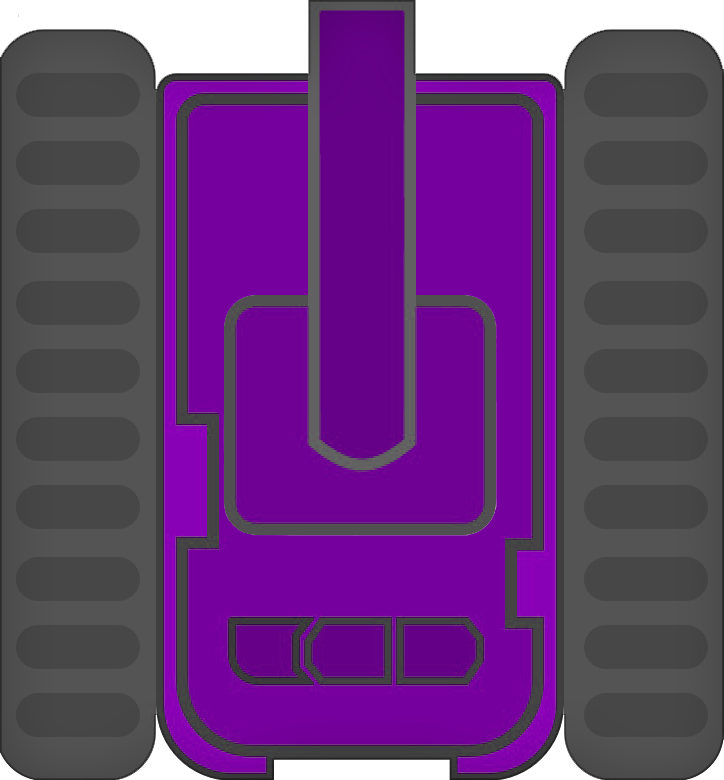
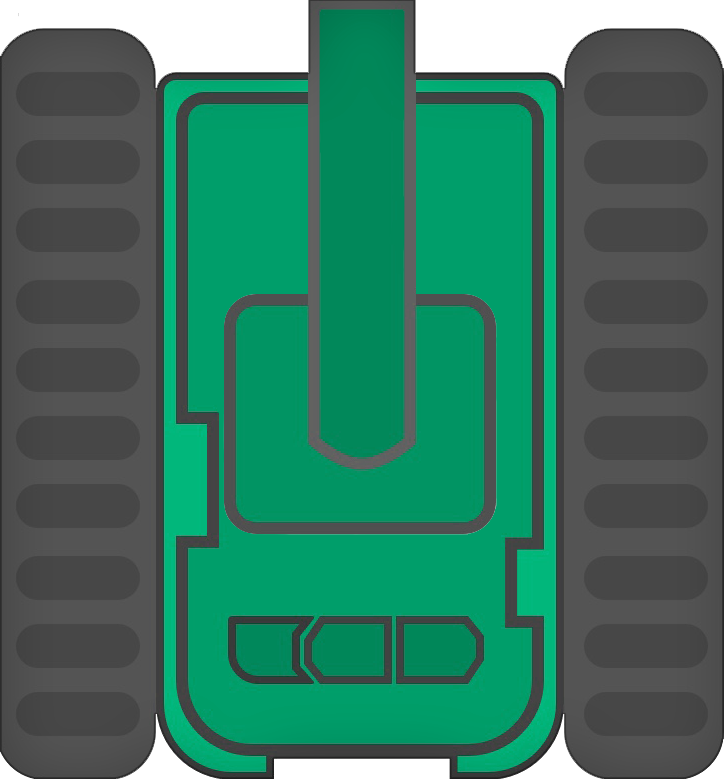
Finished tank selection class, help menu adjusted some stuff and slowly progressing to the game itself..

diff --git a/TankyV2/src/game/SelectionPanel.java b/TankyV2/src/game/SelectionPanel.java
@@ -2,7 +2,10 @@ package game;
 
 import buttons.ButtonMenu;
 import buttons.ButtonSelection;
+import buttons.ButtonTankSelection;
 import tools.Canvas;
+import tools.EImages;
+import tools.Image;
 
 import javax.swing.JPanel;
 import java.awt.Color;
@@ -21,6 +24,7 @@ public class SelectionPanel extends JPanel {
 
     private static final int WIDTH = 700;
     private static final int HEIGHT = 800;
+    private int num = 1;
 
     public SelectionPanel(Canvas canvas) {
         this.panel(Color.BLACK, WIDTH, HEIGHT);
@@ -32,6 +36,9 @@ public class SelectionPanel extends JPanel {
         super.add(new ButtonSelection(420, 579, 210, 70, "CONTINUE", this));
         super.add(new ButtonMenu(75, 579, 210, 70, "BACK", false, this));
         super.add(new ButtonMenu(WIDTH / 2 - 600 / 2, 40, 600, 150, "", true, this));
+
+        super.add(new ButtonTankSelection(75, 385, 100, 55, "", false, this));
+        super.add(new ButtonTankSelection(530, 385, 100, 55, "", true, this));
     }
 
     public void panel(Color color, int width, int height) {
@@ -43,8 +50,18 @@ public class SelectionPanel extends JPanel {
         super.paintComponent(g);
         Graphics2D g2D = (Graphics2D)g;
 
-//        Image image = new Image(EImages.LOGO.getImage());
-//        image.paint(g2D, WIDTH / 2 - 550 / 2, 40, 600, 150);
+        if (this.num > 9) {
+            this.num = 9;
+        } else if (this.num < 5) {
+            this.num = 5;
+        }
+
+        //Oramovanie
+        Image image = new Image(EImages.BCG.getImage());
+        image.paint(g2D, WIDTH / 2 - 310 / 2, 210, 310, 350);
+        //Tanky
+        image = new Image(EImages.getNum(this.num).getImage());
+        image.paint(g2D, WIDTH / 2 - 210 / 2, 260, 210, 250);
     }
 
     public void goToMenu() {
@@ -57,6 +74,16 @@ public class SelectionPanel extends JPanel {
         super.removeAll();
         this.canvas.add(new MapSelectionPanel(this.canvas));
         this.canvas.panelConfig(this);
+        this.canvas.setTankN(this.num);
+    }
+
+    public void changeNum(boolean right) {
+        if (right) {
+            this.num++;
+        } else {
+            this.num--;
+        }
+        this.repaint();
     }
 }
 

diff --git a/TankyV2/src/buttons/ButtonTankSelection.java b/TankyV2/src/buttons/ButtonTankSelection.java
@@ -1,6 +1,5 @@
 package buttons;
 
-import game.HelpPanel;
 import game.MapSelectionPanel;
 import game.SelectionPanel;
 import tools.Button;
@@ -16,23 +15,24 @@ import java.awt.event.ActionListener;
  *
  * @author simon
  */
-public class ButtonMenu extends Button {
-
-    public ButtonMenu(int x, int y, int width, int height, String text, boolean img, JPanel panel) {
+public class ButtonTankSelection extends Button {
+    public ButtonTankSelection(int x, int y, int width, int height, String text, boolean right, JPanel panel) {
         super(x, y, width, height, text);
-        if (img) {
-            super.setIcon(new ImageIcon(EImages.LOGO.getImage()));
-            super.setBorderPainted(false);
+        super.setBorderPainted(false);
+        if (right) {
+            super.setIcon(new ImageIcon(EImages.BRIGHT.getImage()));
+        } else {
+            super.setIcon(new ImageIcon(EImages.BLEFT.getImage()));
         }
+
         super.addActionListener(new ActionListener() {
             @Override
             public void actionPerformed(ActionEvent e) {
-                if (panel instanceof HelpPanel) {
-                    ((HelpPanel)panel).goToMenu();
-                } else if (panel instanceof SelectionPanel) {
-                    ((SelectionPanel)panel).goToMenu();
+                if (panel instanceof SelectionPanel) {
+                    ((SelectionPanel)panel).changeNum(right);
+
                 } else if (panel instanceof MapSelectionPanel) {
-                    ((MapSelectionPanel)panel).goToMenu();
+                    ((MapSelectionPanel)panel).changeNum(right);
                 }
             }
         });

diff --git a/TankyV2/src/tools/EImages.java b/TankyV2/src/tools/EImages.java
@@ -11,15 +11,21 @@ import java.io.IOException;
  * @author simon
  */
 public enum EImages {
-    LOGO("assets/core/tankyLogo_2.png"),
-    LOGO2("assets/core/tankyLogo.png"),
+    //MenuAssets
+    LOGO("assets/core/tankyLogo.png"),
+    ICON("assets/core/tankyIcon.png"),
+    BCG("assets/core/imgbcg.png"),
+    HELP("assets/core/help.png"),
+    BLEFT("assets/core/btnleft.png"),
+    BRIGHT("assets/core/btnright.png"),
+    //TankAssets
     TANK1("assets/tanks/tank1.png"),
     TANK2("assets/tanks/tank2.png"),
     TANK3("assets/tanks/tank3.png"),
     TANK4("assets/tanks/tank4.png"),
     TANK5("assets/tanks/tank5.png"),
-    ICON("assets/core/tankyIcon.png"),
-    BCG("assets/core/imgbcg.png");
+    ENEMY1("assets/tanks/tankE1.png"),
+    ENEMY2("assets/tanks/tankE2.png");
 
     private BufferedImage image;
 
@@ -37,8 +43,8 @@ public enum EImages {
     }
 
     public static EImages getNum(int num) {
-        if (num < 1 || num > 5) {
-            num = 1;
+        if (num < 5 || num > 11) {
+            num = 5;
         }
         return EImages.values()[num + 1];
     }

diff --git a/TankyV2/src/game/HelpPanel.java b/TankyV2/src/game/HelpPanel.java
@@ -31,7 +31,6 @@ public class HelpPanel extends JPanel {
 
         //Buttons
         super.add(new ButtonMenu(WIDTH / 2 - 600 / 2, 40, 600, 150, "", true, this));
-        super.add(new ButtonMenu(75, 579, 210, 70, "BACK", false, this));
     }
 
     public void panel(Color color, int width, int height) {
@@ -43,8 +42,8 @@ public class HelpPanel extends JPanel {
         super.paintComponent(g);
         Graphics2D g2D = (Graphics2D)g;
 
-        Image image = new Image(EImages.LOGO.getImage());
-        image.paint(g2D, WIDTH / 2 - 550 / 2, 40, 550, 130);
+        Image image = new Image(EImages.HELP.getImage());
+        image.paint(g2D, WIDTH / 2 - 550 / 2, 240, 550, 430);
         this.revalidate();
     }
 

diff --git a/TankyV2/src/tools/Canvas.java b/TankyV2/src/tools/Canvas.java
@@ -14,6 +14,7 @@ import java.awt.Toolkit;
 public class Canvas extends JFrame {
 
     private int counter = 0;
+    private int tankN;
 
     public Canvas() {
         //Canvas Init.
@@ -39,5 +40,14 @@ public class Canvas extends JFrame {
         }
         this.counter++;
         this.setLocation(dim.width / 2 - super.getSize().width / 2, dim.height / 2 - super.getSize().height / 2);
+
+    }
+
+    public int getTankN() {
+        return this.tankN;
+    }
+
+    public void setTankN(int tankN) {
+        this.tankN = tankN;
     }
 }

diff --git a/TankyV2/src/game/GamePanel.java b/TankyV2/src/game/GamePanel.java
@@ -1,6 +1,8 @@
 package game;
 
 import tools.Canvas;
+import tools.EImages;
+import tools.Image;
 import tools.KeyHandler;
 
 import javax.swing.JPanel;
@@ -56,5 +58,8 @@ public class GamePanel extends JPanel implements Runnable {
     public void paintComponent(Graphics g) {
         super.paintComponent(g);
         Graphics2D g2D = (Graphics2D)g;
+
+        Image image = new Image(EImages.getNum(this.canvas.getTankN()).getImage());
+        image.paint(g2D, WIDTH / 2 - 210 / 2, 260, 210, 250);
     }
 }

diff --git a/TankyV2/src/game/MenuPanel.java b/TankyV2/src/game/MenuPanel.java
@@ -49,7 +49,7 @@ public class MenuPanel extends JPanel {
         if (!this.isPainted) {
             this.isPainted = true;
             Random random = new Random();
-            this.num = random.nextInt(5) + 1;
+            this.num = random.nextInt(11 - 5) + 5;
         }
 
         super.paintComponent(g);
@@ -76,5 +76,6 @@ public class MenuPanel extends JPanel {
         super.removeAll();
         this.canvas.add(new SelectionPanel(this.canvas));
         this.canvas.panelConfig(this);
+
     }
 }

diff --git a/TankyV2/src/game/MapSelectionPanel.java b/TankyV2/src/game/MapSelectionPanel.java
@@ -65,4 +65,7 @@ public class MapSelectionPanel extends JPanel {
         this.canvas.add(new MenuPanel(this.canvas));
         this.canvas.panelConfig(this);
     }
+
+    public void changeNum(boolean right) {
+    }
 }
